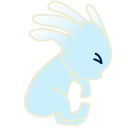
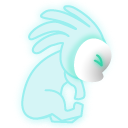
start to cave generation - new hurt sprite lumni

diff --git a/Assets/Scripts/Gamescripts/AreaGenerator.cs b/Assets/Scripts/Gamescripts/AreaGenerator.cs
@@ -1,0 +1,64 @@
+using UnityEngine;
+using System.Collections;
+
+public class PlatformGenerator : MonoBehaviour {
+
+    public GameManager gameManager;
+
+    public Transform generationPoint;
+
+    public float currentSectionWidth;
+
+    public ObjectPooler objectPool;
+
+    public GameObject[] sections;
+    private float[] sectionWidths;
+    private int sectionSelector;
+
+    public GameObject caveObject;
+
+    private int levelPoint;
+    public int levelLength;
+
+	// Use this for initialization
+	void Start () {
+
+        sectionWidths = new float[sections.Length];
+        levelPoint = 0;
+
+        for (int i = 0; i < sections.Length; i++) {
+            sectionWidths[i] = sections[i].GetComponent<SectionController>().getSectionWidth();
+        } 
+
+	}
+	
+	// Update is called once per frame
+	void Update () {
+	    
+        if (this.transform.position.x < generationPoint.transform.position.x) {
+
+            if (levelPoint < levelLength) {
+
+                sectionSelector = Random.Range(0, sections.Length);
+
+                this.transform.position = new Vector3(this.transform.position.x + currentSectionWidth, this.transform.position.y, this.transform.position.z);
+                currentSectionWidth = sectionWidths[sectionSelector];
+
+                Instantiate (sections[sectionSelector], this.transform.position, this.transform.rotation);
+
+                /* GameObject newPlatform = objectPool.getPooledObject();
+                newPlatform.transform.position = this.transform.position;
+                newPlatform.transform.rotation = this.transform.rotation;
+                newPlatform.SetActive(true); */
+            } else {
+
+                /* generate a cave to transition to new level */
+                Instantiate (caveObject, this.transform.position, this.transform.rotation);
+
+
+            }
+
+        }
+
+	}
+}
